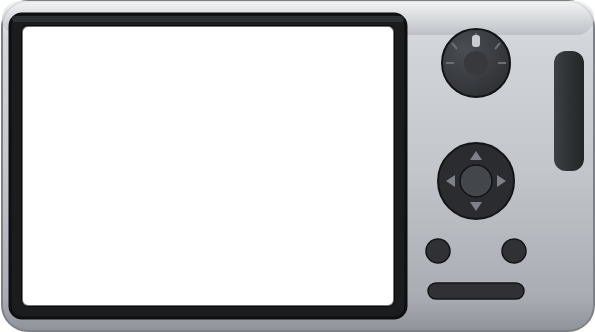
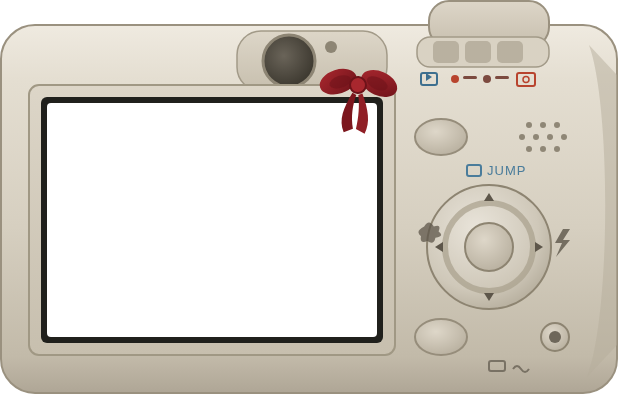
Redraw digicam to match reference: champagne body, control dial, red bow
Screen hole fractions re-measured; device box resized to true aspect.

Claude-Session: https://claude.ai/code/session_01HwHnB6ZvdvjAvLg4jAqUHh

diff --git a/index.html b/index.html
@@ -129,8 +129,8 @@ const LAYOUT = {
   "doodle-sun":     {x: 842, y: 262, w:  72, h:  72, r:  0},
   "doodle-airplane":{x: 823, y: 370, w: 116, h:  74, r: -4},
   "doodle-vinyl":   {x: 845, y: 492, w:  72, h:  72, r:  0},
-  "device":         {x: 960, y: 180, w: 300, h: 167, r:  0},
-  "label-exp":      {x: 960, y: 368, w: 300, h:  30, r:  0},
+  "device":         {x: 960, y: 178, w: 300, h: 191, r:  0},
+  "label-exp":      {x: 960, y: 382, w: 300, h:  30, r:  0},
   "certstack":      {x: 970, y: 420, w: 250, h: 240, r:  0},
   "label-cert":     {x: 960, y: 672, w: 280, h:  30, r:  0},
   "soc-mail":       {x: 569, y: 694, w:  60, h:  39, r: -3, href: "mailto:aashvi.geddam@gmail.com"},
@@ -154,7 +154,7 @@ const ASSETS = {
   "certstack": null, "soc-li": null, "soc-gh": null,
   deviceFrame: "assets/camera.png",
   deviceVideo: null,        /* assets/experience-demo.mp4 */
-  deviceScreen: {x: 0.0387, y: 0.0813, w: 0.6218, h: 0.8373},
+  deviceScreen: {x: 0.0761, y: 0.2614, w: 0.5340, h: 0.5939},
 };
 
 for (const [id, p] of Object.entries(LAYOUT)) {
